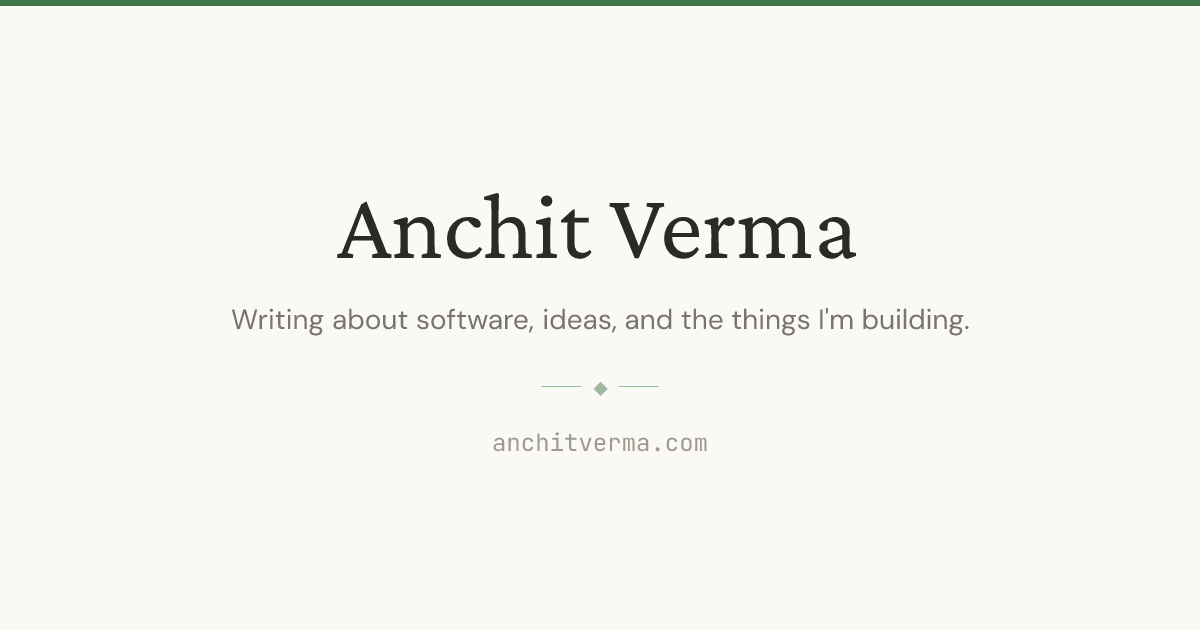
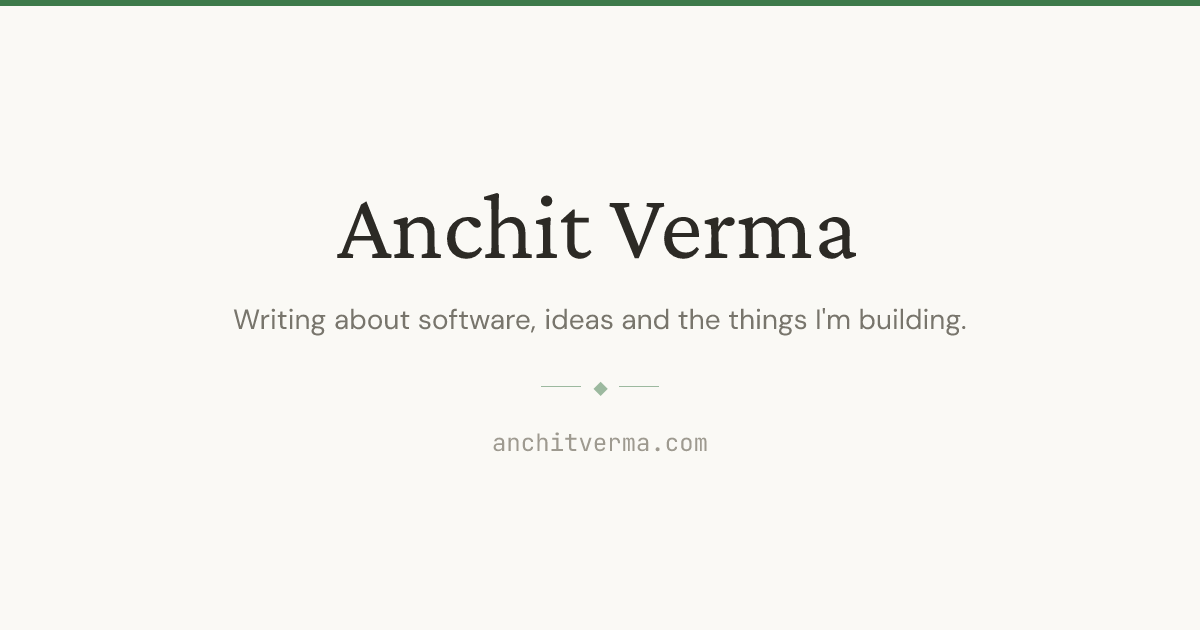
Drop the Oxford comma from the tagline and Notes descriptions
The site's copy doesn't use the serial comma. The tagline appears on the
home hero, in the RSS feed description and on the default social card,
so the card is regenerated too.

Changed region(s): [[0.185, 0.4825, 0.8017, 0.5429]]

diff --git a/src/pages/rss.xml.ts b/src/pages/rss.xml.ts
@@ -45,7 +45,7 @@ export async function GET(context: APIContext) {
 
   return rss({
     title: 'Anchit Verma',
-    description: 'Writing about software, ideas, and the things I\'m building.',
+    description: 'Writing about software, ideas and the things I\'m building.',
     site: context.site!,
     items: allItems,
     customData: '<language>en-us</language>',
